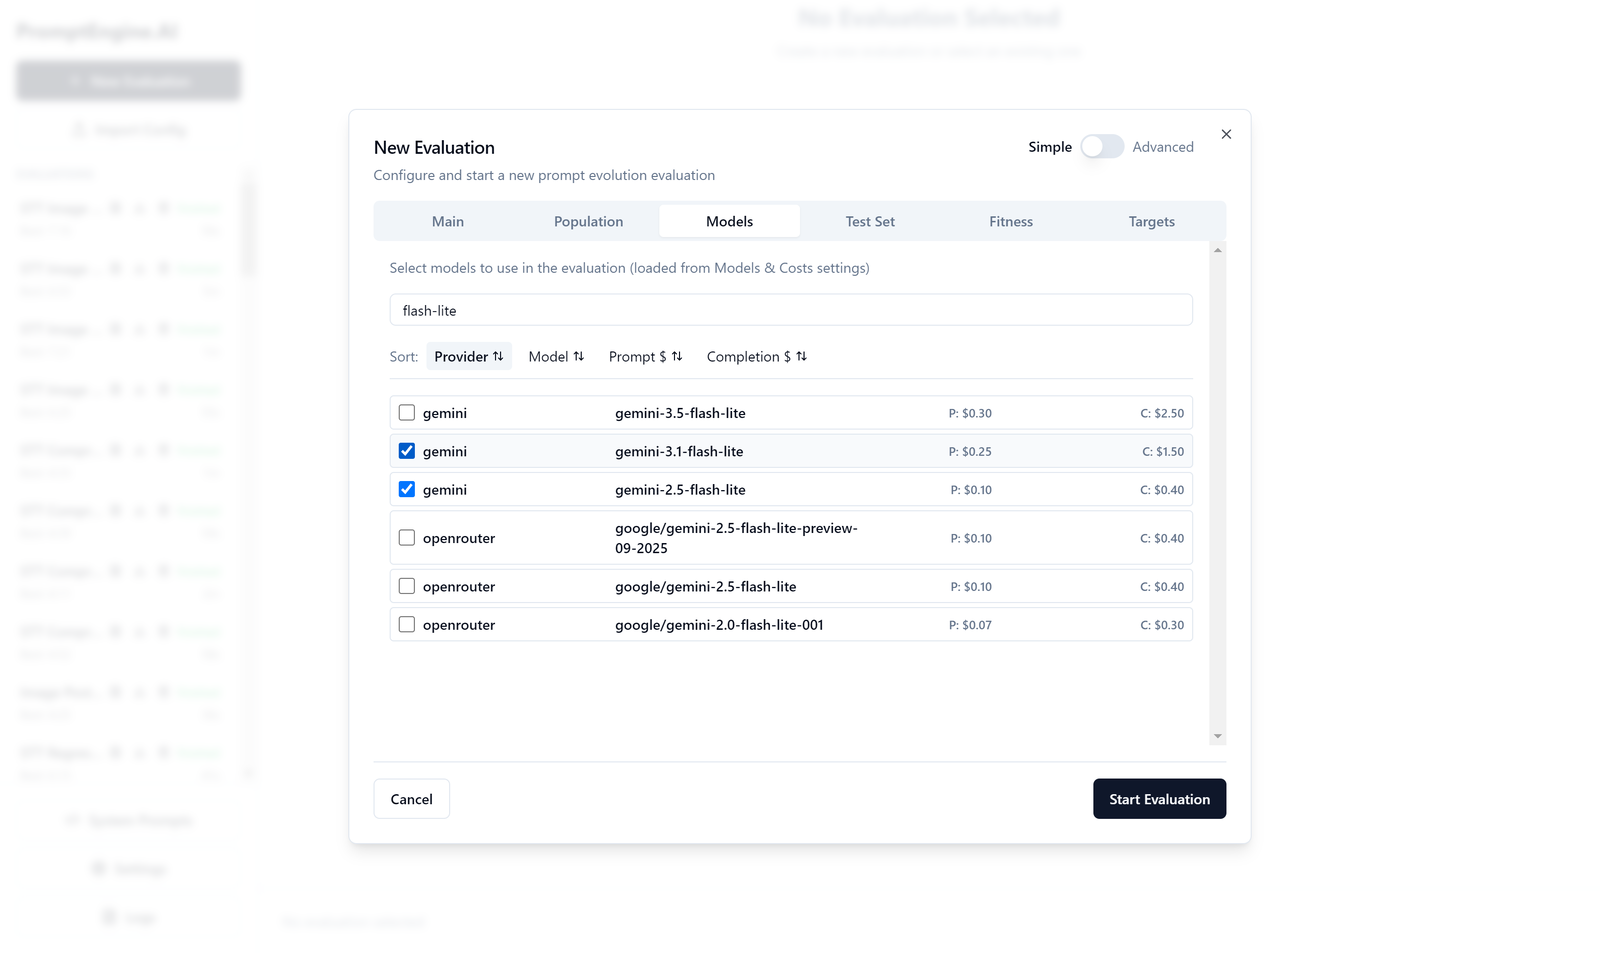
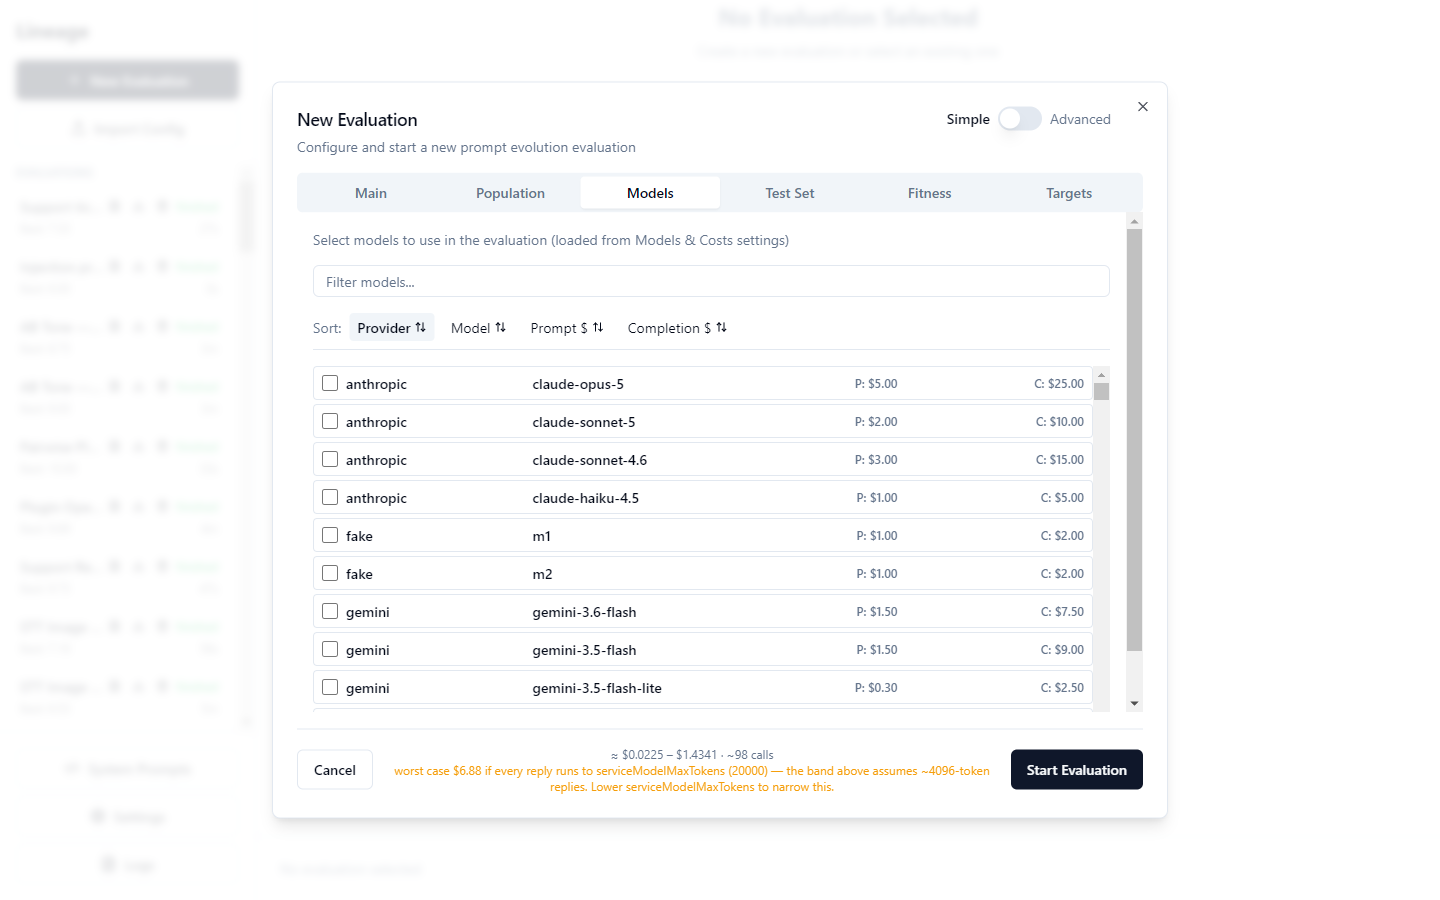
Reshooting the screenshots found the built app rendering nothing at all
CenterView imported selectChampion from the @lineage/core barrel, which
drags database/init (sql.js, fs, path) and ajv into the RENDERER;
vite-plugin-electron-renderer rewrote those built-ins to `require`,
which does not exist under contextIsolation, so the production window
threw before React mounted. Dev mode was fine, so nothing caught it -
the installers on the roadmap would have shipped a blank app. The
champion rule now ships as the browser-safe @lineage/core/champion
subpath: one implementation, no engine, renderer bundle 821KB -> 618KB.
A new test fails on any renderer import of the barrel and scans the
built chunks for executable require.

The catalog read path was also still serving rows the write path had
already learned to reject: openrouter/auto showed at -$1,000,000 per 1M
and was selectable, which inverts fitness and disarms budgetUSD. Rows
written before the sync-time filter existed are in every user's
database, so the read side refuses them too now.

Assets are re-shot from a real 48s run in the renamed app: 24
candidates, 4 generations, 4 models, $0.026 - including two candidates
that failed outright and a holdout that did not move, both left in
frame. The captions say what the run actually did.

diff --git a/apps/desktop/tests/renderer-import-boundary.test.ts b/apps/desktop/tests/renderer-import-boundary.test.ts
@@ -1,0 +1,87 @@
+import { describe, it, expect } from 'vitest';
+import fs from 'node:fs';
+import path from 'node:path';
+
+/**
+ * The renderer runs in a browser context with contextIsolation and no
+ * nodeIntegration — `require` does not exist there.
+ *
+ * A single runtime import of the engine barrel (`import { selectChampion }
+ * from '@lineage/core'`) pulled database/init.ts (sql.js, fs, path) and ajv
+ * into the renderer bundle; vite-plugin-electron-renderer rewrote those Node
+ * built-ins to `const ED=require, Ft=ED("path")`, and the PRODUCTION window
+ * threw `ReferenceError: require is not defined` before React mounted — a
+ * blank app. Dev mode was unaffected, so nothing caught it: `npm run build`
+ * produced installers whose window renders nothing.
+ *
+ * Engine logic the renderer genuinely shares (the champion rule) is exported
+ * as the browser-safe `@lineage/core/champion` subpath instead.
+ */
+const SRC = path.resolve(__dirname, '../src');
+
+function walk(dir: string): string[] {
+  return fs.readdirSync(dir, { withFileTypes: true }).flatMap(e => {
+    const p = path.join(dir, e.name);
+    if (e.isDirectory()) return walk(p);
+    return /\.(ts|tsx)$/.test(e.name) ? [p] : [];
+  });
+}
+
+describe('renderer source never imports the engine barrel at runtime', () => {
+  const files = walk(SRC);
+
+  it('finds renderer sources to check', () => {
+    expect(files.length).toBeGreaterThan(10);
+  });
+
+  it('has no value import of @lineage/core outside a type position', () => {
+    const offenders: string[] = [];
+    for (const file of files) {
+      const text = fs.readFileSync(file, 'utf-8');
+      // Strip line comments so the explanatory notes about this very rule
+      // do not trip it.
+      const code = text.replace(/^\s*(\/\/|\*|\/\*).*$/gm, '');
+      for (const m of code.matchAll(/(^|\n)\s*import\s+([\s\S]*?)from\s+['"]@lineage\/core['"]/g)) {
+        const clause = m[2];
+        // `import type { X } from` and `import type * as` are erased at build
+        // time and are fine; anything else emits a real module import.
+        if (!/^\s*type\b/.test(clause)) {
+          offenders.push(`${path.relative(SRC, file)}: import ${clause.trim().slice(0, 60)}…`);
+        }
+      }
+      for (const m of code.matchAll(/(^|\n)\s*export\s+([\s\S]*?)from\s+['"]@lineage\/core['"]/g)) {
+        if (!/^\s*type\b/.test(m[2])) {
+          offenders.push(`${path.relative(SRC, file)}: export ${m[2].trim().slice(0, 60)}…`);
+        }
+      }
+    }
+    expect(offenders, `renderer files importing the engine barrel:\n${offenders.join('\n')}`).toEqual([]);
+  });
+
+  it('the champion subpath IS used, so the rule is still shared with the engine', () => {
+    const centerView = fs.readFileSync(path.join(SRC, 'components/CenterView.tsx'), 'utf-8');
+    expect(centerView).toContain("from '@lineage/core/champion'");
+  });
+});
+
+describe('the built renderer bundle contains no Node require', () => {
+  const distAssets = path.resolve(__dirname, '../dist/assets');
+
+  it('has no `require(` outside string literals in any built chunk', () => {
+    if (!fs.existsSync(distAssets)) {
+      // Nothing built in this checkout — the source-level guard above is the
+      // one that runs everywhere; this asserts the actual artifact when present.
+      return;
+    }
+    const chunks = fs.readdirSync(distAssets).filter(f => f.endsWith('.js'));
+    expect(chunks.length).toBeGreaterThan(0);
+    for (const chunk of chunks) {
+      const js = fs.readFileSync(path.join(distAssets, chunk), 'utf-8');
+      // `x=require` / `require(` as executable code. Ajv embeds require(...)
+      // inside quoted code-generation strings, which never execute here.
+      const bare = js.match(/[^"'`\w.]require\s*[(,;]/g) ?? [];
+      const executable = bare.filter(hit => !/["'`]/.test(hit));
+      expect(executable, `${chunk} contains executable require`).toEqual([]);
+    }
+  });
+});

diff --git a/apps/desktop/electron/ipc/handlers.ts b/apps/desktop/electron/ipc/handlers.ts
@@ -919,6 +919,24 @@ async function testApiKey(provider: string): Promise<boolean> {
   }
 }
 
+/**
+ * Is a stored catalog row usable as a price?
+ *
+ * WRITE-side validation (validateModelCost, and the OpenRouter sync's own
+ * filter for the "-1" price-varies sentinel) only protects rows written AFTER
+ * those guards existed. Rows synced before them are still in every user's
+ * database, and the READ path served them happily: the desktop model list
+ * showed `openrouter/auto` at -$1,000,000 and let it be selected, which
+ * inverts fitness (a worse prompt scores higher) and lets totals run away from
+ * budgetUSD so the cap can never trip. Reject at every entry point means the
+ * read side too.
+ */
+function usableCostRow(row: { promptUSDper1k: unknown; completionUSDper1k: unknown }): boolean {
+  return [row.promptUSDper1k, row.completionUSDper1k].every(
+    v => typeof v === 'number' && Number.isFinite(v) && v >= 0,
+  );
+}
+
 async function getModelCost(modelRef: ModelRef): Promise<ModelCostEntry | null> {
   const db = getDatabase();
   const row = db.prepare(`
@@ -926,15 +944,23 @@ async function getModelCost(modelRef: ModelRef): Promise<ModelCostEntry | null> 
     FROM model_costs
     WHERE provider = ? AND model = ?
   `).get(modelRef.provider, modelRef.model) as any;
-  
+
   if (!row) return null;
-  
-  return {
+
+  const entry: ModelCostEntry = {
     provider: row.provider,
     model: row.model,
     promptUSDper1k: row.prompt_usd_per_1k,
     completionUSDper1k: row.completion_usd_per_1k,
   };
+  if (!usableCostRow(entry)) {
+    console.warn(
+      `[Costs] ${entry.provider}/${entry.model} has an invalid stored price ` +
+      `(${entry.promptUSDper1k}/${entry.completionUSDper1k}) — treating it as unpriced. Re-sync models.`,
+    );
+    return null;
+  }
+  return entry;
 }
 
 /**
@@ -995,7 +1021,18 @@ async function getAllModelCosts(): Promise<ModelCostEntry[]> {
     FROM model_costs
   `).all() as any[];
   
-  return rows.map(row => ({
+  // Stale invalid rows are hidden, not shown-and-selectable: see usableCostRow.
+  const usable = rows.filter(row => usableCostRow({
+    promptUSDper1k: row.prompt_usd_per_1k, completionUSDper1k: row.completion_usd_per_1k,
+  }));
+  if (usable.length !== rows.length) {
+    console.warn(
+      `[Costs] Hiding ${rows.length - usable.length} model(s) with invalid stored prices ` +
+      `(negative or non-finite — e.g. OpenRouter's "-1" price-varies sentinel). Re-sync models to refresh them.`,
+    );
+  }
+
+  return usable.map(row => ({
     provider: row.provider,
     model: row.model,
     promptUSDper1k: row.prompt_usd_per_1k,

diff --git a/apps/desktop/tests/ipc/handlers.test.ts b/apps/desktop/tests/ipc/handlers.test.ts
@@ -205,4 +205,25 @@ describe('model cost handlers', () => {
     const entry = await invoke('costs:get', { provider: 'groq', model: 'test-model-x' });
     expect(entry.promptUSDper1k).toBeCloseTo(0.001, 10);
   });
+
+  it('hides catalog rows with NEGATIVE stored prices instead of offering them', async () => {
+    // Write-side guards (validateModelCost, the OpenRouter "-1" sentinel
+    // filter) only protect rows written after they existed. Rows synced
+    // earlier are in real databases today: the model list showed
+    // `openrouter/auto` at -$1,000,000 and let it be selected, which inverts
+    // fitness and disarms budgetUSD. The READ path must refuse them too.
+    const { getDatabase } = await import('@lineage/core');
+    const db = getDatabase();
+    db.prepare(`
+      INSERT OR REPLACE INTO model_costs (provider, model, prompt_usd_per_1k, completion_usd_per_1k)
+      VALUES ('openrouter', 'openrouter/auto', -1000, -1000)
+    `).run();
+
+    const all = await invoke('costs:getAll');
+    expect(all.some((e: any) => e.model === 'openrouter/auto')).toBe(false);
+    expect(all.every((e: any) => e.promptUSDper1k >= 0 && e.completionUSDper1k >= 0)).toBe(true);
+
+    // A direct lookup must not hand a negative price to fitness or the estimator.
+    expect(await invoke('costs:get', { provider: 'openrouter', model: 'openrouter/auto' })).toBeNull();
+  });
 });

diff --git a/apps/desktop/src/components/CenterView.tsx b/apps/desktop/src/components/CenterView.tsx
@@ -11,7 +11,12 @@ import ReactFlow, {
 } from 'reactflow';
 import 'reactflow/dist/style.css';
 import type { UUID } from '../types';
-import { selectChampion } from '@lineage/core';
+// Subpath, NOT the barrel: importing '@lineage/core' from renderer code pulls
+// the whole engine (sql.js, fs, path, ajv) into the browser bundle, where
+// vite-plugin-electron-renderer rewrites the Node built-ins to `require` —
+// undefined under contextIsolation. The built app then rendered a blank window
+// while dev mode stayed fine. Same single implementation, no engine.
+import { selectChampion } from '@lineage/core/champion';
 import { useEvaluation } from '../hooks/useEvaluation';
 
 interface CenterViewProps {

diff --git a/apps/desktop/vite.config.ts b/apps/desktop/vite.config.ts
@@ -55,6 +55,11 @@ export default defineConfig(({ mode }) => ({
   resolve: {
     alias: {
       '@': path.resolve(__dirname, './src'),
+      // Subpath FIRST: vite matches aliases in order, and the barrel entry
+      // would otherwise swallow '@lineage/core/champion'. The renderer must
+      // never resolve the barrel — it drags sql.js/fs/path into the browser
+      // bundle, which the electron-renderer plugin rewrites to `require`.
+      '@lineage/core/champion': path.resolve(__dirname, '../../packages/core/src/engine/champion.ts'),
       '@lineage/core': path.resolve(__dirname, '../../packages/core/src/index.ts')
     }
   },

diff --git a/packages/core/tsup.config.ts b/packages/core/tsup.config.ts
@@ -1,7 +1,12 @@
 import { defineConfig } from 'tsup';
 
 export default defineConfig({
-  entry: ['src/index.ts'],
+  // `champion` ships as its own entry because the RENDERER needs the
+  // champion-selection rule and must not import the engine barrel: that pulls
+  // database/init.ts (sql.js, fs, path) and ajv into a browser context, where
+  // vite-plugin-electron-renderer polyfills them with `require` — undefined
+  // under contextIsolation, so the production window rendered nothing at all.
+  entry: ['src/index.ts', 'src/engine/champion.ts'],
   format: ['esm'],
   dts: true,
   clean: true,

diff --git a/apps/desktop/vitest.config.ts b/apps/desktop/vitest.config.ts
@@ -5,6 +5,8 @@ export default defineConfig({
   resolve: {
     alias: {
       '@': path.resolve(__dirname, './src'),
+      // Subpath first — alias order matters, the barrel would swallow it.
+      '@lineage/core/champion': path.resolve(__dirname, '../../packages/core/src/engine/champion.ts'),
       '@lineage/core': path.resolve(__dirname, '../../packages/core/src/index.ts'),
     },
   },

diff --git a/README.md b/README.md
@@ -12,7 +12,7 @@ Lineage treats a prompt like a genome: it spawns a population of variants, score
 
 ![Evolution run](docs/assets/evolution-run.gif)
 
-*A real 47-second run: 30 candidates, 3 generations, 6 models competing, $0.013 total. The hand-written seed scored 5.30. The evolved champion scored 9.73 — created by crossover of two strong parents, running on a model 25× cheaper than the flagship in the same population.*
+*A real 48-second run: 24 candidates, 4 generations, 4 models competing, $0.026 total. The hand-written seed scored 6.67; the champion 7.33, reached by meta-prompting that read the judge's complaints and added few-shot examples. Two candidates on one OpenRouter model failed outright (red) and the run carried on. Note the footer: `Holdout 7.00 → 7.00`. The training score improved and the held-out score did not — so this run bought a better prompt on the tests it could see and no proven generalization. The tool says so on its own front page rather than quoting you the training delta.*
 
 ## Why this beats prompt engineering by hand
 
@@ -20,7 +20,7 @@ Lineage treats a prompt like a genome: it spawns a population of variants, score
 
 **It optimizes trade-offs, not just quality.** Fitness is a weighted blend of five dimensions — quality, safety, cost, latency, stability — so the questions in the header aren't marketing: they're just weight configurations. The population converges toward *your* trade-off, not toward generic eloquence.
 
-**It discovers model arbitrage.** With several models in the gene pool, the model-variation operator keeps re-dealing prompts to different models. Evolution routinely finds that a tuned prompt on a cheap model beats a mediocre prompt on an expensive one — in the demo run above, `gemini-2.5-flash-lite` outscored `gpt-5-mini` candidates at a fraction of the cost.
+**It searches model choice, not just wording.** With several models in the gene pool, the model-variation operator keeps re-dealing prompts to different models, and the per-model scores fall out of the same run — in the demo above, four models competed and the champion ended up on `gemini-2.5-flash` (best 7.33) over `gemini-2.5-flash-lite` (7.00) and `openai/gpt-4o-mini` (6.00), at $0.0014 per candidate. Sometimes that finds a cheap model that matches an expensive one; either way you get the comparison as evidence instead of a hunch.
 
 **It learns from its own failures.** The meta-prompting operator reads the judge's actual feedback on failing tests ("added a preamble", "wrong date format") and performs surgical fixes — not blind rewrites. It's the closest thing to a prompt engineer in the loop, except it reads every test result, every time.
 
@@ -38,7 +38,7 @@ Each generation, the engine:
 | Operator | What it does | Why it's interesting |
 |---|---|---|
 | **Mutation** | Rewrites guided by a strategy catalog: restructuring, compression, tightening constraints, adding anti-patterns, injecting thinking scaffolds — and *removal* of harmful lines | Strategies are sampled per mutation, so the search explores different editing philosophies, not one style |
-| **Crossover** | LLM-merges two strong parents into one prompt without redundancy | The demo's champion was a crossover — traits from two lineages combined |
+| **Crossover** | LLM-merges two strong parents into one prompt without redundancy | Traits from two lineages combine — the merge is validated, and a "merge" that just returns a parent is recorded as a carry, not a change |
 | **Meta-prompting** | Reads the worst-scoring tests (inputs, outputs, judge justifications) and proposes targeted edits | The only *failure-aware* operator — this is directed evolution, not random walk |
 | **Param variation** | Same prompt, different temperature/seed within a configured range | Sometimes the prompt is fine and the sampling is wrong |
 | **Model variation** | Same prompt, different model from your enabled set | Turns model choice into a searchable dimension |
@@ -138,9 +138,11 @@ In the desktop app, models load from the catalog with live pricing:
 
 ![New evaluation](docs/assets/new-evaluation.png)
 
-Watch generations appear with full lineage, then click any node: its evolved prompt, the changelog of what created it, per-test scores with the judge's reasoning, and exact cost:
+Watch generations appear with full lineage — the champion in gold, failed candidates in red, the footer carrying spend, cache hits and the holdout number as they change:
 
 ![Evolution graph](docs/assets/evolution-graph.png)
+
+Click any node for its evolved prompt, the changelog of exactly what created it (here: meta-prompting adding few-shot examples after reading the judge), and per-test scores with the graded output and the judge's reasoning:
 
 ![Node details](docs/assets/node-details.png)
 
